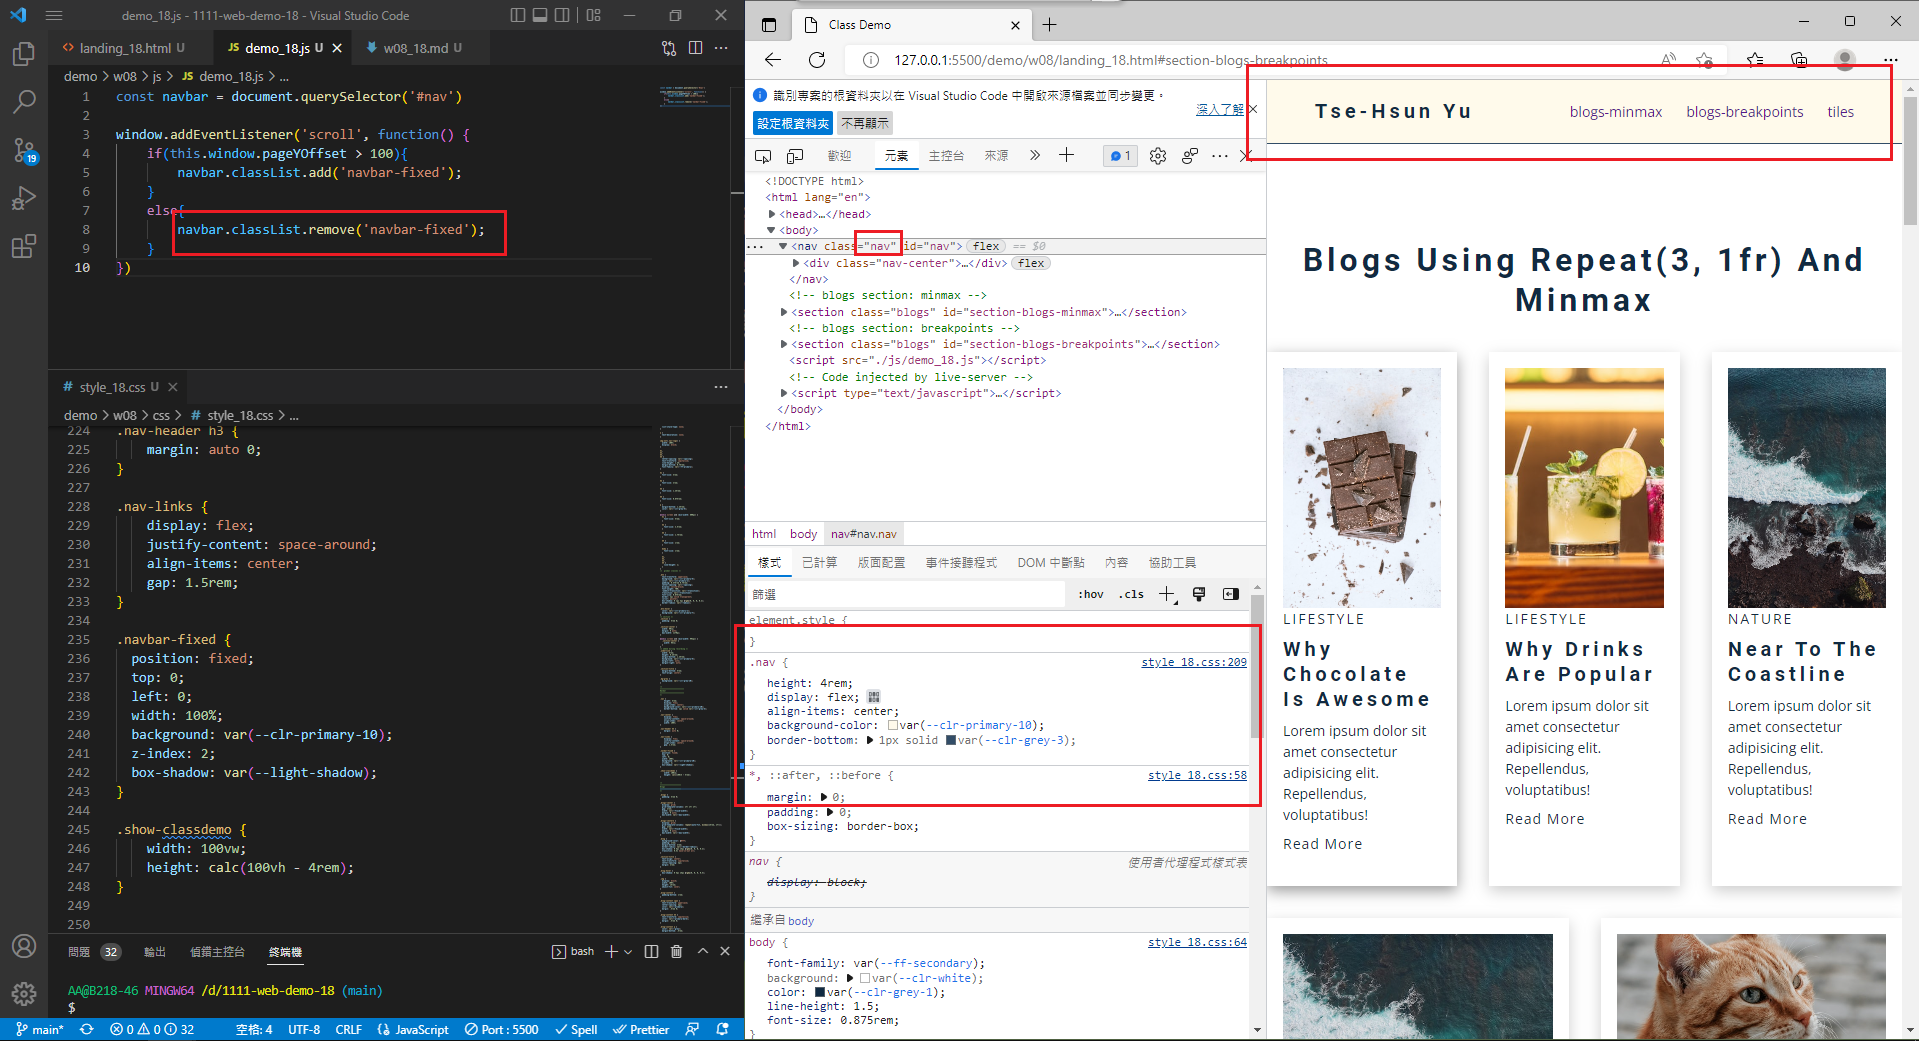
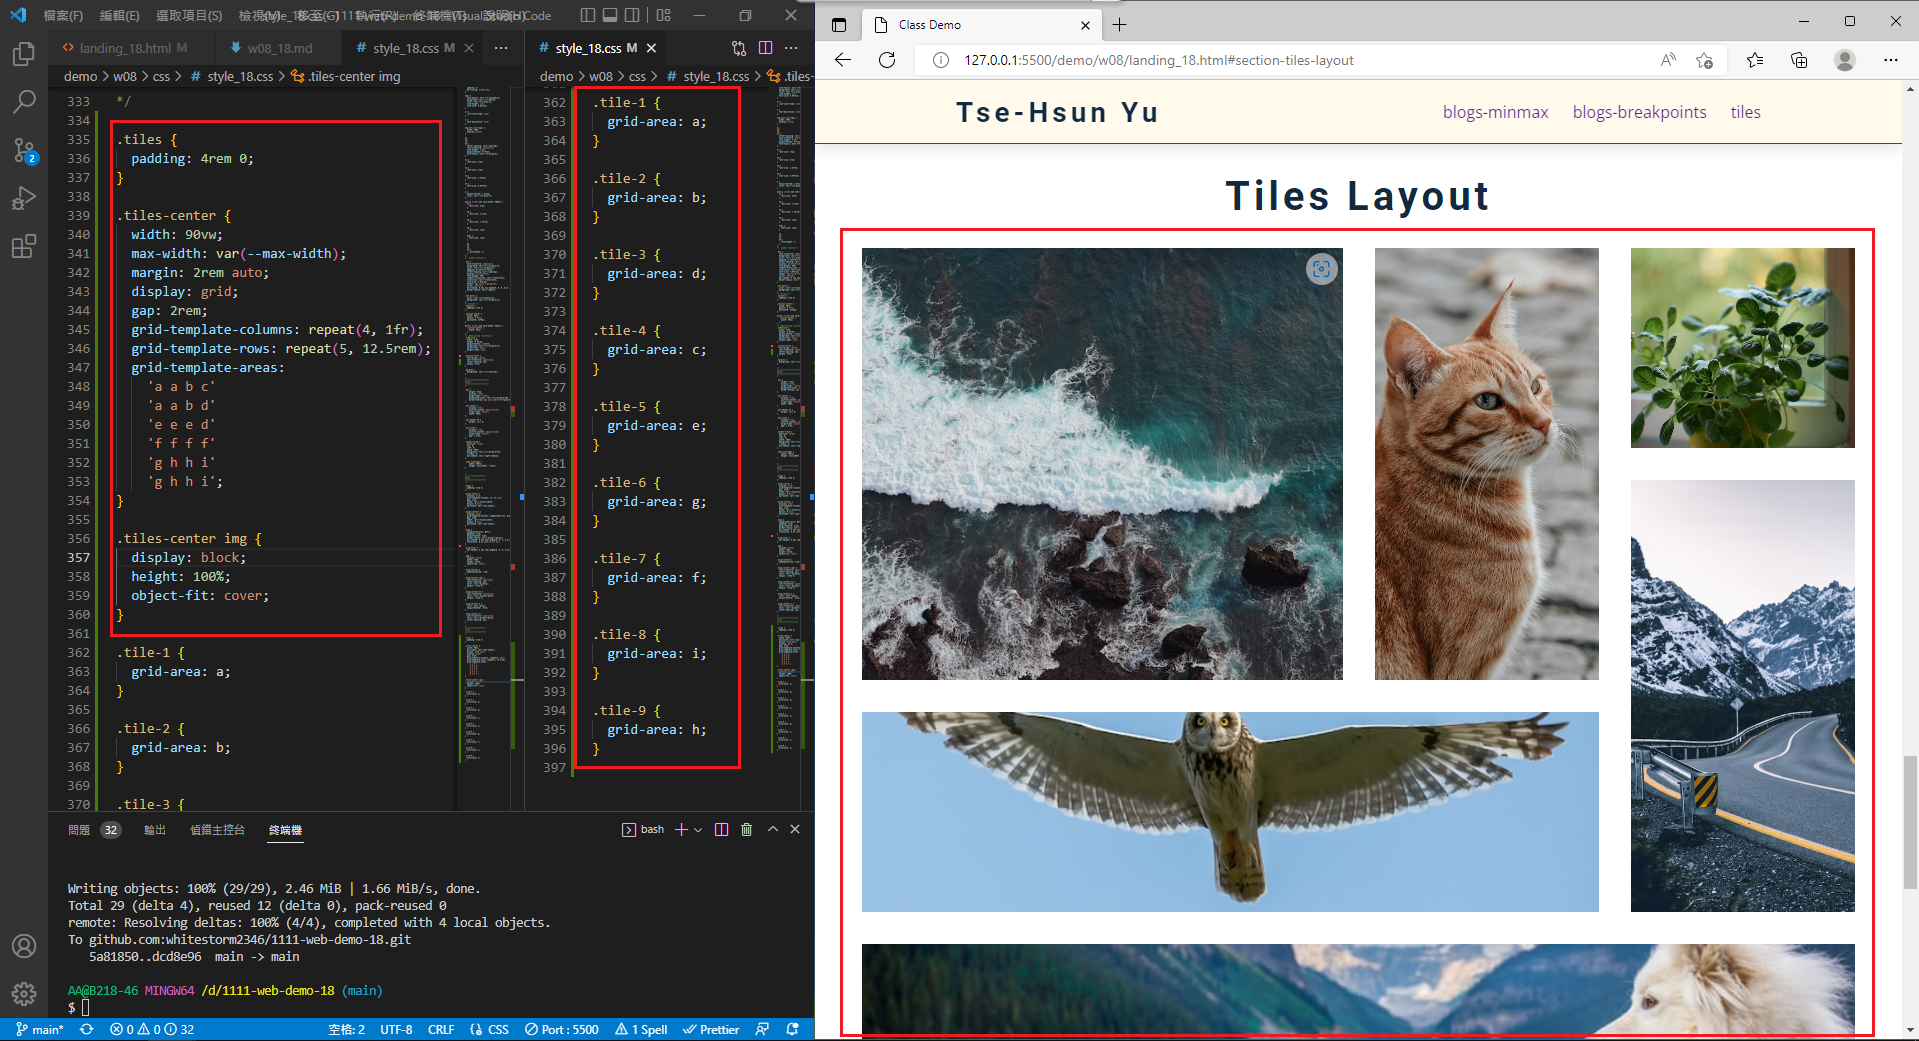
W08-P2: Show tiles layout with css

diff --git a/demo/w08/landing_18.html b/demo/w08/landing_18.html
@@ -23,7 +23,7 @@
                     <a href="#section-blogs-breakpoints">blogs-breakpoints</a>
                 </li>
                 <li>
-                    <a href="#">tiles</a>
+                    <a href="#section-tiles-layout">tiles</a>
                 </li>
             </ul>
         </div>
@@ -270,6 +270,60 @@
             </article>
         </div>
     </section>
+
+    <!-- tiles section -->
+    <section class="tiles" id="section-tiles-layout">
+        <div class="section-title">
+          <h2>tiles layout</h2>
+        </div>
+        <div class="tiles-center">
+          <!-- single tile -->
+          <article class="tile-1">
+            <img src="./images/photo-1.jpg" alt="" />
+          </article>
+          <!--end of single tile -->
+          <!-- single tile -->
+          <article class="tile-2">
+            <img src="./images/photo-2.jpg" alt="" />
+          </article>
+          <!--end of single tile -->
+          <!-- single tile -->
+          <article class="tile-3">
+            <img src="./images/photo-3.jpg" alt="" />
+          </article>
+          <!--end of single tile -->
+          <!-- single tile -->
+          <article class="tile-4">
+            <img src="./images/photo-4.jpg" alt="" />
+          </article>
+          <!--end of single tile -->
+          <!-- single tile -->
+          <article class="tile-5">
+            <img src="./images/photo-5.jpg" alt="" />
+          </article>
+          <!--end of single tile -->
+          <!-- single tile -->
+          <article class="tile-6">
+            <img src="./images/photo-6.jpg" alt="" />
+          </article>
+          <!--end of single tile -->
+          <!-- single tile -->
+          <article class="tile-7">
+            <img src="./images/photo-7.jpg" alt="" />
+          </article>
+          <!--end of single tile -->
+          <!-- single tile -->
+          <article class="tile-8">
+            <img src="./images/photo-8.jpg" alt="" />
+          </article>
+          <!--end of single tile -->
+          <!-- single tile -->
+          <article class="tile-9">
+            <img src="./images/photo-9.jpg" alt="" />
+          </article>
+          <!--end of single tile -->
+        </div>
+      </section>
 
     <script src="./js/demo_18.js"></script>
 </body>

diff --git a/demo/w08/css/style_18.css b/demo/w08/css/style_18.css
@@ -192,8 +192,10 @@ p {
 }
 
 .section-title {
-  margin-bottom: 4rem;
   text-align: center;
+  text-transform: capitalize;
+  letter-spacing: 2px;
+  margin: 2rem;
 }
 
 .bg-grey {
@@ -285,13 +287,6 @@ Blogs
   transition: 0.5s ease-in-out all;
 }
 
-.section-title {
-  text-align: center;
-  text-transform: capitalize;
-  letter-spacing: 2px;
-  margin: 2rem;
-}
-
 .blog:hover {
   box-shadow: 0 5px 15px rgba(0, 0, 0, 0.4);
 }
@@ -336,3 +331,66 @@ Blogs
 Tiles
 =====================
 */
+
+.tiles {
+  padding: 4rem 0;
+}
+
+.tiles-center {
+  width: 90vw;
+  max-width: var(--max-width);
+  margin: 2rem auto;
+  display: grid;
+  gap: 2rem;
+  grid-template-columns: repeat(4, 1fr);
+  grid-template-rows: repeat(5, 12.5rem);
+  grid-template-areas: 
+    'a a b c'
+    'a a b d'
+    'e e e d'
+    'f f f f'
+    'g h h i'
+    'g h h i';
+}
+
+.tiles-center img {
+  display: block;
+  height: 100%;
+  object-fit: cover;
+}
+
+.tile-1 {
+  grid-area: a;
+}
+
+.tile-2 {
+  grid-area: b;
+}
+
+.tile-3 {
+  grid-area: d;
+}
+
+.tile-4 {
+  grid-area: c;
+}
+
+.tile-5 {
+  grid-area: e;
+}
+
+.tile-6 {
+  grid-area: g;
+}
+
+.tile-7 {
+  grid-area: f;
+}
+
+.tile-8 {
+  grid-area: i;
+}
+
+.tile-9 {
+  grid-area: h;
+}

diff --git a/demo/md/w08/w08_18.md b/demo/md/w08/w08_18.md
@@ -6,8 +6,10 @@
 
 ### W08-P1: show fixed navbar with nav items
 
-![](w08-p1.png)
+![](w08-p1-1.png)
+
+![](w08-p1-2.png)
+
+### W08-P2: Show tiles layout with css
 
 ![](w08-p2.png)
-
-### W08-P2:
